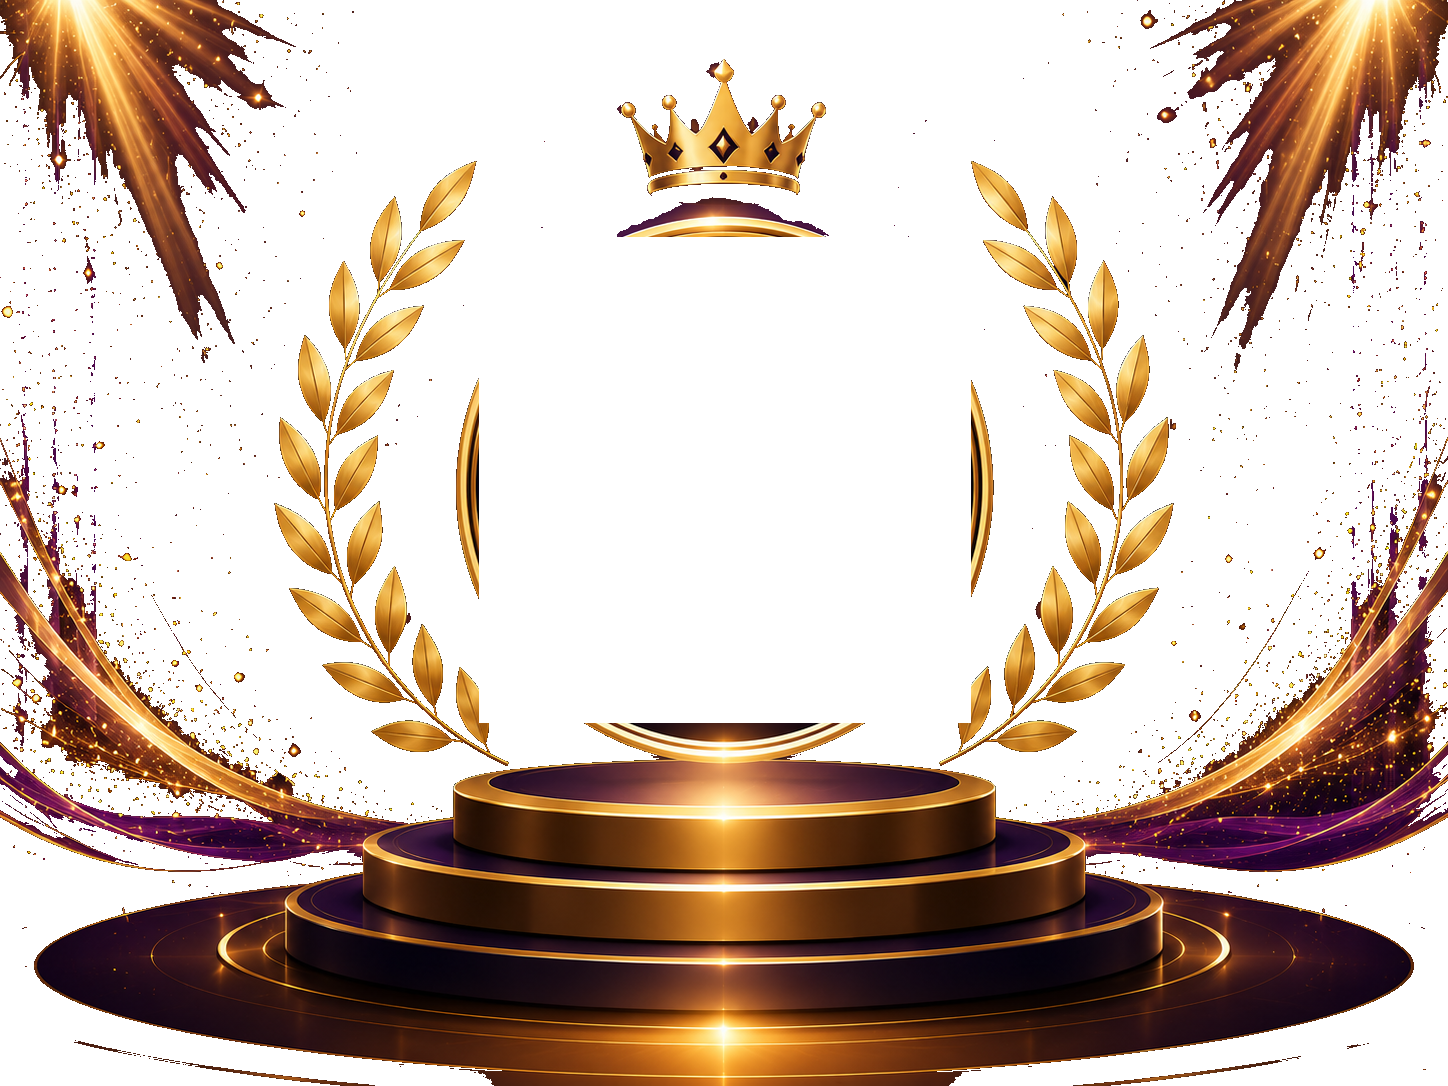
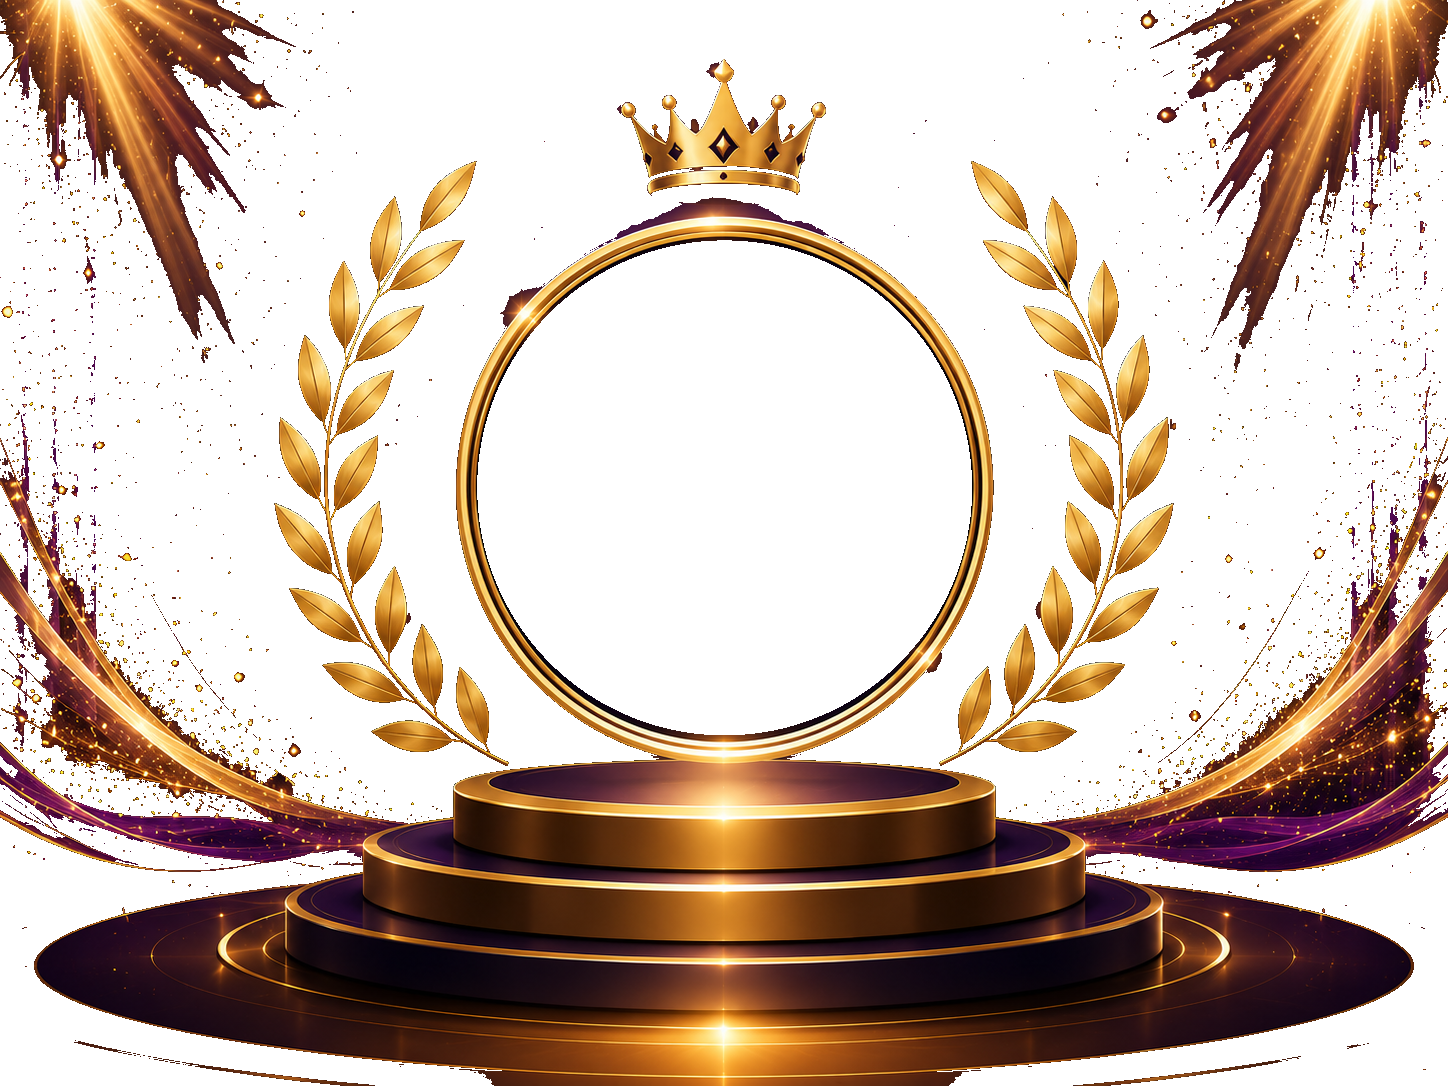
fix(recognition): place Million Lifetime 1-person portrait inside the medallion
Use a dedicated circular inner viewport for million_lifetime with exactly one
recipient. Cover-fit the approved 3:4 crop, circular-mask the portrait, and
overlay the extracted gold medallion so the rectangular hero geometry no longer
covers the baked circular frame. Multiple-recipient Million Lifetime geometry
is unchanged.

diff --git a/src/lib/recognition/recognition-presentation-pptx.ts b/src/lib/recognition/recognition-presentation-pptx.ts
@@ -31,8 +31,10 @@ import {
   type RecognitionSlideBox,
 } from "@/lib/recognition/recognition-presentation-master-layout";
 import {
+  coverRecognitionPortraitToCircularViewport,
   coverRecognitionPortraitToViewport,
   jpegBufferToPptxData,
+  pngBufferToPptxData,
 } from "@/lib/recognition/recognition-presentation-images";
 import {
   LIFETIME_RECOGNITION_PRESENTATION_THEME,
@@ -162,6 +164,29 @@ async function addCoveredPortrait(input: {
   });
   input.slide.addImage({
     data: jpegBufferToPptxData(covered.jpegBuffer),
+    x: input.viewport.x,
+    y: input.viewport.y,
+    w: input.viewport.w,
+    h: input.viewport.h,
+  });
+}
+
+async function addCoveredCircularPortrait(input: {
+  slide: Slide;
+  viewport: RecognitionSlideBox;
+  portrait: RecognitionPreparedPortrait | undefined;
+  displayName: string;
+}) {
+  if (!input.portrait) {
+    throw new Error(`missing presentation portrait for ${input.displayName}`);
+  }
+  const pixels = viewportPixelSize(input.viewport);
+  const covered = await coverRecognitionPortraitToCircularViewport({
+    jpegBuffer: input.portrait.jpegBuffer,
+    diameterPx: Math.min(pixels.width, pixels.height),
+  });
+  input.slide.addImage({
+    data: pngBufferToPptxData(covered.pngBuffer),
     x: input.viewport.x,
     y: input.viewport.y,
     w: input.viewport.w,
@@ -394,12 +419,45 @@ async function renderWallSlide(input: {
   });
 }
 
+async function renderMillionOneSlide(input: {
+  slide: Slide;
+  candidates: RecognitionPresentationCandidate[];
+  portraits: Map<string, RecognitionPreparedPortrait>;
+  theme: RecognitionPresentationTheme;
+}) {
+  const slots = millionPortraitSlots(1);
+  const slot = slots[0]!;
+  const candidate = input.candidates[0];
+  if (!candidate) {
+    throw new Error("million lifetime 1-person slide is missing its recipient");
+  }
+  await addCoveredCircularPortrait({
+    slide: input.slide,
+    viewport: slot.photo,
+    portrait: input.portraits.get(candidate.candidateId),
+    displayName: candidate.displayName,
+  });
+  addFullSlideOverlay(input.slide, "million-ring");
+  addSlotNames({
+    slide: input.slide,
+    candidates: input.candidates,
+    slots,
+    theme: input.theme,
+    color: RECOGNITION_NAME_ON_NAVY,
+    fontSizePt: 26,
+  });
+}
+
 async function renderMillionSlide(input: {
   slide: Slide;
   candidates: RecognitionPresentationCandidate[];
   portraits: Map<string, RecognitionPreparedPortrait>;
   theme: RecognitionPresentationTheme;
 }) {
+  if (input.candidates.length === 1) {
+    await renderMillionOneSlide(input);
+    return;
+  }
   const slots = millionPortraitSlots(input.candidates.length);
   await addPortraits({
     slide: input.slide,
@@ -407,9 +465,7 @@ async function renderMillionSlide(input: {
     portraits: input.portraits,
     slots,
   });
-  if (input.candidates.length === 1) {
-    addFullSlideOverlay(input.slide, "million-ring");
-  } else if (input.candidates.length <= 3) {
+  if (input.candidates.length <= 3) {
     for (const slot of slots) {
       addExtractedPortraitFrame(input.slide, slot.overlay);
     }
@@ -420,7 +476,7 @@ async function renderMillionSlide(input: {
     slots,
     theme: input.theme,
     color: RECOGNITION_NAME_ON_NAVY,
-    fontSizePt: input.candidates.length === 1 ? 26 : input.candidates.length <= 3 ? 18 : 12,
+    fontSizePt: input.candidates.length <= 3 ? 18 : 12,
   });
 }
 

diff --git a/src/lib/recognition/recognition-presentation-pptx.test.ts b/src/lib/recognition/recognition-presentation-pptx.test.ts
@@ -4,7 +4,7 @@ import { mkdirSync, readFileSync, rmSync, writeFileSync } from "node:fs";
 import { tmpdir } from "node:os";
 import { join } from "node:path";
 import sharp from "sharp";
-import { cropRecognitionPortraitForPresentation, coverRecognitionPortraitToViewport } from "@/lib/recognition/recognition-presentation-images";
+import { cropRecognitionPortraitForPresentation, coverRecognitionPortraitToCircularViewport, coverRecognitionPortraitToViewport } from "@/lib/recognition/recognition-presentation-images";
 import { buildRecognitionPresentationData } from "@/lib/recognition/recognition-presentation-dto";
 import { planRecognitionPresentation, RECOGNITION_PPTX_SLIDE } from "@/lib/recognition/recognition-presentation-layout";
 import { renderRecognitionPresentationPptx } from "@/lib/recognition/recognition-presentation-pptx";
@@ -95,6 +95,25 @@ describe("Recognition presentation crop rendering", () => {
     const meta = await sharp(covered.jpegBuffer).metadata();
     expect(meta.width).toBe(210);
     expect(meta.height).toBe(400);
+  });
+
+  it("circular-masks the Million Lifetime 1-person cover-fit without stretching", async () => {
+    const portrait = await sharp({
+      create: { width: 300, height: 400, channels: 3, background: { r: 40, g: 90, b: 70 } },
+    }).jpeg().toBuffer();
+    const covered = await coverRecognitionPortraitToCircularViewport({
+      jpegBuffer: portrait,
+      diameterPx: 200,
+    });
+    expect(covered.width).toBe(200);
+    expect(covered.height).toBe(200);
+    const { data, info } = await sharp(covered.pngBuffer).ensureAlpha().raw().toBuffer({ resolveWithObject: true });
+    expect(info.width).toBe(200);
+    expect(info.height).toBe(200);
+    const alphaAt = (x: number, y: number) => data[(y * info.width + x) * info.channels + 3];
+    expect(alphaAt(100, 100)).toBeGreaterThan(200);
+    expect(alphaAt(1, 1)).toBe(0);
+    expect(alphaAt(198, 1)).toBe(0);
   });
 });
 

diff --git a/src/lib/recognition/recognition-presentation-master-layout.ts b/src/lib/recognition/recognition-presentation-master-layout.ts
@@ -142,9 +142,13 @@ const WALL_NAME_PLAQUES: readonly RecognitionSlideBox[] = [
   { x: 8.018, y: 5.62, w: 1.0912, h: 0.2 },
 ];
 
-const MILLION_INNER: RecognitionSlideBox = { x: 3.308, y: 1.6367, w: 3.3978, h: 3.3564 };
-const MILLION_PHOTO: RecognitionSlideBox = { x: 3.3771, y: 1.7058, w: 3.2596, h: 3.2182 };
-const MILLION_NAME: RecognitionSlideBox = { x: 2.2, y: 5.28, w: 5.6, h: 0.36 };
+/**
+ * Million Lifetime + exactly 1 recipient. Inner/photo boxes are the bounding
+ * squares of the baked circular medallion opening (extracted overlay sits above).
+ */
+const MILLION_1_INNER: RecognitionSlideBox = { x: 3.2782, y: 1.6428, w: 3.446, h: 3.446 };
+const MILLION_1_PHOTO: RecognitionSlideBox = { x: 3.3127, y: 1.6774, w: 3.377, h: 3.377 };
+const MILLION_1_NAME: RecognitionSlideBox = { x: 2.2, y: 5.28, w: 5.6, h: 0.36 };
 
 const NAME_ONLY_CONTENT: RecognitionSlideBox = {
   x: 0.9,
@@ -376,7 +380,12 @@ export function wallNamePlaque(index: number): RecognitionSlideBox {
 export function millionPortraitSlots(count: number): RecognitionPortraitSlot[] {
   if (count <= 0) return [];
   if (count === 1) {
-    return [{ photo: MILLION_PHOTO, inner: MILLION_INNER, overlay: MILLION_INNER, name: MILLION_NAME }];
+    return [{
+      photo: MILLION_1_PHOTO,
+      inner: MILLION_1_INNER,
+      overlay: RECOGNITION_MASTER_FILL,
+      name: MILLION_1_NAME,
+    }];
   }
   if (count === 2) {
     return heroPairSlots();
@@ -422,7 +431,7 @@ function millionGridViewports(count: number): RecognitionSlideBox[] {
 }
 
 export function millionNameBox(viewport: RecognitionSlideBox, count: number): RecognitionSlideBox {
-  if (count === 1) return MILLION_NAME;
+  if (count === 1) return MILLION_1_NAME;
   return nameBoxBelowViewport(viewport, count <= 3 ? 0.34 : 0.26, 0.07);
 }
 

diff --git a/scripts/generate-recognition-phase7-qa.ts b/scripts/generate-recognition-phase7-qa.ts
@@ -19,7 +19,7 @@ import {
   portraitSlotsForMaster,
   verifyRecognitionSlideGeometry,
 } from "../src/lib/recognition/recognition-presentation-geometry";
-import { titleGeometryForMaster } from "../src/lib/recognition/recognition-presentation-master-layout";
+import { hero2PortraitSlots, millionPortraitSlots, titleGeometryForMaster } from "../src/lib/recognition/recognition-presentation-master-layout";
 import { DEFAULT_RECOGNITION_PRESENTATION_THEME } from "../src/lib/recognition/recognition-presentation-theme";
 import { RECOGNITION_LIFETIME_ACHIEVEMENT_SLUG } from "../src/lib/recognition/recognition-presentation-types";
 import type { RecognitionPreparedPortrait } from "../src/lib/recognition/recognition-presentation-types";
@@ -260,6 +260,13 @@ async function main() {
   }
   if (life1.candidateIds.length !== 1 || portraitSlotsForMaster("million-lifetime", 1).length !== 1) {
     throw new Error("million lifetime 1-person QA is not a single centered portrait");
+  }
+  const millionOne = millionPortraitSlots(1)[0];
+  if (!millionOne || Math.abs(millionOne.photo.w - millionOne.photo.h) > 0.001) {
+    throw new Error("million lifetime 1-person viewport must be the circular medallion bounding square");
+  }
+  if (JSON.stringify(millionPortraitSlots(2)) !== JSON.stringify(hero2PortraitSlots())) {
+    throw new Error("million lifetime multiple geometry must stay identical to the approved 2-person pair");
   }
   if (life2.candidateIds.length !== 2 || portraitSlotsForMaster("million-lifetime", 2).length !== 2) {
     throw new Error("million lifetime multiple QA is not a 2-person composition");

diff --git a/src/lib/recognition/recognition-presentation-images.ts b/src/lib/recognition/recognition-presentation-images.ts
@@ -138,6 +138,40 @@ export function jpegBufferToPptxData(buffer: Buffer): string {
   return `image/jpeg;base64,${buffer.toString("base64")}`;
 }
 
+export function pngBufferToPptxData(buffer: Buffer): string {
+  return `image/png;base64,${buffer.toString("base64")}`;
+}
+
+/**
+ * Cover-fit the approved 3:4 presentation crop into a circular viewport.
+ * Center-crops as needed, then applies a circular alpha mask so corners cannot
+ * cover medallion artwork. Does not change admin crop metadata.
+ */
+export async function coverRecognitionPortraitToCircularViewport(input: {
+  jpegBuffer: Buffer;
+  diameterPx: number;
+}): Promise<{ pngBuffer: Buffer; width: number; height: number }> {
+  const diameterPx = Math.max(1, Math.round(input.diameterPx));
+  const covered = await sharp(input.jpegBuffer)
+    .resize({
+      width: diameterPx,
+      height: diameterPx,
+      fit: "cover",
+      position: "centre",
+    })
+    .ensureAlpha()
+    .png()
+    .toBuffer();
+  const mask = Buffer.from(
+    `<svg xmlns="http://www.w3.org/2000/svg" width="${diameterPx}" height="${diameterPx}"><circle cx="${diameterPx / 2}" cy="${diameterPx / 2}" r="${diameterPx / 2}" fill="white"/></svg>`,
+  );
+  const pngBuffer = await sharp(covered)
+    .composite([{ input: mask, blend: "dest-in" }])
+    .png()
+    .toBuffer();
+  return { pngBuffer, width: diameterPx, height: diameterPx };
+}
+
 /**
  * Cover-fit the approved 3:4 presentation crop into a master viewport.
  * Center-crops as needed. Does not stretch and does not change admin crop metadata.

diff --git a/src/lib/recognition/recognition-presentation-geometry.test.ts b/src/lib/recognition/recognition-presentation-geometry.test.ts
@@ -7,6 +7,8 @@ import {
 import { recognitionFrameAbsolutePath } from "@/lib/recognition/recognition-presentation-assets";
 import {
   fitRecognitionTitleInBox,
+  hero2PortraitSlots,
+  millionPortraitSlots,
   titleGeometryForMaster,
 } from "@/lib/recognition/recognition-presentation-master-layout";
 
@@ -47,5 +49,26 @@ describe("Recognition presentation geometry lock", () => {
     const cy = Math.floor(info.height / 2);
     const alpha = data[(cy * info.width + cx) * info.channels + 3];
     expect(alpha).toBe(0);
+  });
+
+  it("uses a circular medallion viewport only for Million Lifetime 1-person", async () => {
+    const one = millionPortraitSlots(1);
+    expect(one).toHaveLength(1);
+    expect(one[0]!.photo.w).toBeCloseTo(one[0]!.photo.h, 5);
+    expect(one[0]!.inner.w).toBeCloseTo(one[0]!.inner.h, 5);
+    expect(one[0]!.photo.w).toBeGreaterThan(3.2);
+    expect(one[0]!.photo.h).toBeGreaterThan(3.2);
+
+    const two = millionPortraitSlots(2);
+    const heroTwo = hero2PortraitSlots();
+    expect(two).toEqual(heroTwo);
+
+    const overlay = sharp(recognitionFrameAbsolutePath("million-ring"));
+    const { data, info } = await overlay.ensureAlpha().raw().toBuffer({ resolveWithObject: true });
+    const channels = info.channels;
+    const centerAlpha = data[(487 * info.width + 724) * channels + 3];
+    expect(centerAlpha).toBe(0);
+    const ringAlpha = data[(305 * info.width + 906) * channels + 3];
+    expect(ringAlpha).toBeGreaterThan(200);
   });
 });

diff --git a/scripts/extract-recognition-frame-overlays.py b/scripts/extract-recognition-frame-overlays.py
@@ -73,6 +73,12 @@ def punch_rect(rgba: np.ndarray, x0: int, y0: int, x1: int, y1: int) -> None:
     rgba[y0 : y1 + 1, x0 : x1 + 1, 3] = 0
 
 
+def punch_circle(rgba: np.ndarray, cx: float, cy: float, radius: float) -> None:
+    h, w = rgba.shape[:2]
+    yy, xx = np.ogrid[:h, :w]
+    rgba[(xx - cx) ** 2 + (yy - cy) ** 2 <= radius ** 2, 3] = 0
+
+
 def extract_sprite(rgb: np.ndarray, inner: tuple[int, int, int, int], pad: int) -> tuple[np.ndarray, dict]:
     h, w = rgb.shape[:2]
     ix0, iy0, ix1, iy1 = inner
@@ -108,6 +114,38 @@ def extract_sprite(rgb: np.ndarray, inner: tuple[int, int, int, int], pad: int) 
         "inner": inner_in,
         "photo": photo,
         "px": {"inner": [ix0, iy0, ix1, iy1], "overlay": [abs_x0, abs_y0, abs_x0 + sprite.shape[1] - 1, abs_y0 + sprite.shape[0] - 1]},
+    }
+
+
+def extract_million_medallion_overlay(rgb: np.ndarray, circle: dict[str, float]) -> np.ndarray:
+    """Keep the baked circular gold medallion; punch only its inner opening."""
+    rgba = np.dstack([rgb, np.full(rgb.shape[:2], 255, np.uint8)])
+    punch_circle(rgba, circle["cx"], circle["cy"], circle["r"] - 2)
+    h, w = rgba.shape[:2]
+    seeds = []
+    for x in range(0, w, 8):
+        seeds.append((x, 0))
+        seeds.append((x, h - 1))
+    for y in range(0, h, 8):
+        seeds.append((0, y))
+        seeds.append((w - 1, y))
+    flood_transparent(rgba, seeds)
+    return rgba
+
+
+def million_one_geometry(circle: dict[str, float]) -> dict:
+    cx, cy, r = circle["cx"], circle["cy"], circle["r"]
+    inner = px_to_in(cx - r, cy - r, r * 2, r * 2)
+    photo = px_to_in(
+        cx - r + INSET_PX,
+        cy - r + INSET_PX,
+        r * 2 - 2 * INSET_PX,
+        r * 2 - 2 * INSET_PX,
+    )
+    return {
+        "circlePx": {"cx": cx, "cy": cy, "r": r},
+        "inner": inner,
+        "photo": photo,
     }
 
 
@@ -184,13 +222,14 @@ def main() -> None:
         (950, 572, 1109, 809),
         (1161, 572, 1318, 809),
     ]
-    million_inner = (479, 237, 970, 722)
+    # Fitted inner opening of the baked circular medallion (not a rectangle).
+    million_circle = {"cx": 724.1793, "cy": 487.3757, "r": 249.4937}
 
     # Full-slide gold overlays with interiors punched — exact master artwork.
     save_png(full_slide_overlay(hero1, [hero1_inner]), OUT / "hero-1-frames.png")
     save_png(full_slide_overlay(hero23, hero23_inners), OUT / "hero-2-3-frames.png")
     save_png(full_slide_overlay(wall, wall_inners), OUT / "wall-frames.png")
-    save_png(full_slide_overlay(million, [million_inner]), OUT / "million-ring.png")
+    save_png(extract_million_medallion_overlay(million, million_circle), OUT / "million-ring.png")
 
     # Single hero-2-3 frame sprite from the center slot (canonical pair size).
     sprite, sprite_geo = extract_sprite(hero23, hero23_inners[1], pad=28)
@@ -210,7 +249,7 @@ def main() -> None:
     geo["hero1"] = {"inner": inner_in(hero1_inner), "photo": photo_from_inner(hero1_inner)}
     geo["hero3"] = [{"inner": inner_in(i), "photo": photo_from_inner(i)} for i in hero23_inners]
     geo["wall"] = [{"inner": inner_in(i), "photo": photo_from_inner(i)} for i in wall_inners]
-    geo["million"] = {"inner": inner_in(million_inner), "photo": photo_from_inner(million_inner)}
+    geo["million1"] = million_one_geometry(million_circle)
     print(json.dumps(geo, indent=2))
 
 

diff --git a/docs/RECOGNITION.md b/docs/RECOGNITION.md
@@ -1171,6 +1171,8 @@ Keyed by slug `million_lifetime`, not by comparing Chinese text.
 
 Uses layout type `lifetime_achievement` and **always** the `million-lifetime.png` master. One or many recipients are both valid. Portrait placement adapts to count without changing master.
 
+Exactly 1 recipient uses a dedicated circular inner viewport of the baked central medallion. The approved 3:4 crop is cover-fit into that circle (no stretch, no letterbox), then circular-masked so the portrait cannot cover the gold ring, crown, or laurels. The extracted `million-ring` overlay (the existing medallion artwork, not a redesigned frame) sits above the portrait. Multiple-recipient placement on this master is unchanged.
+
 ### Crop rendering
 
 Admin crop is authoritative and remains 3:4.
